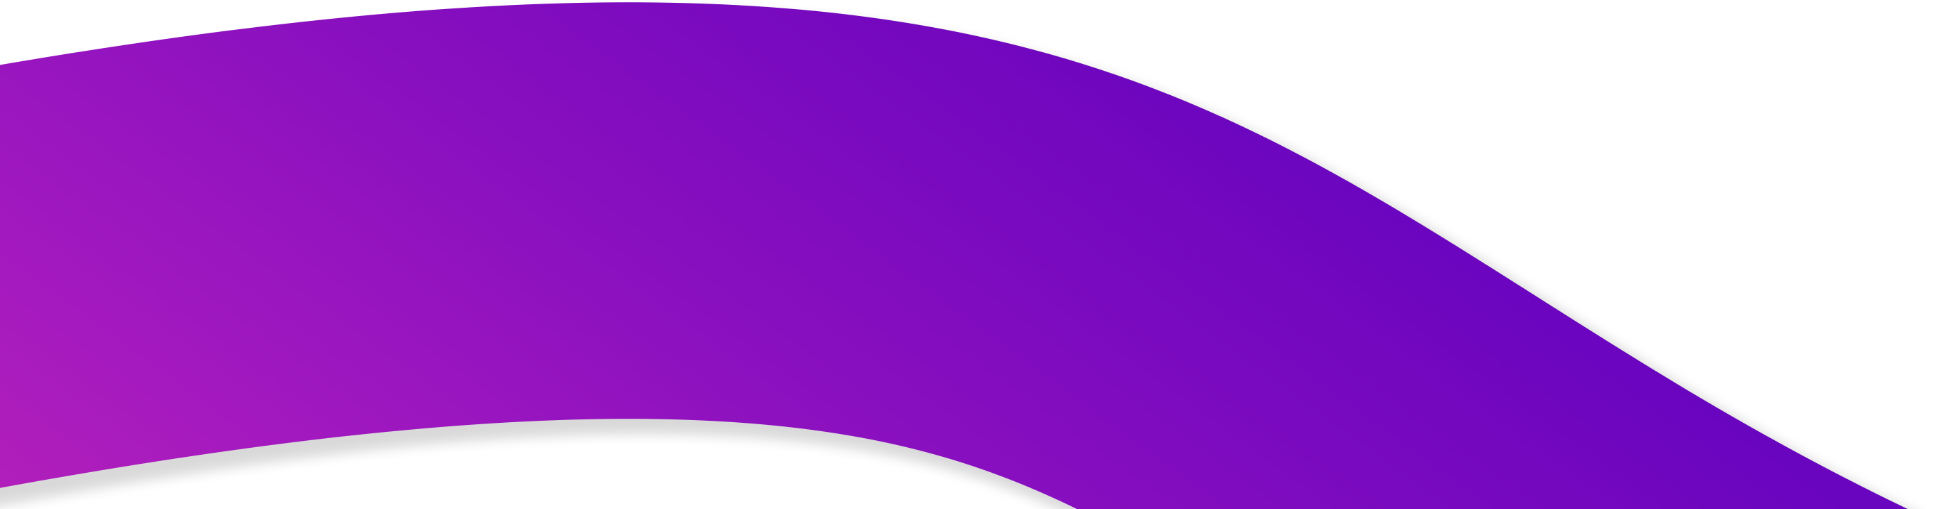
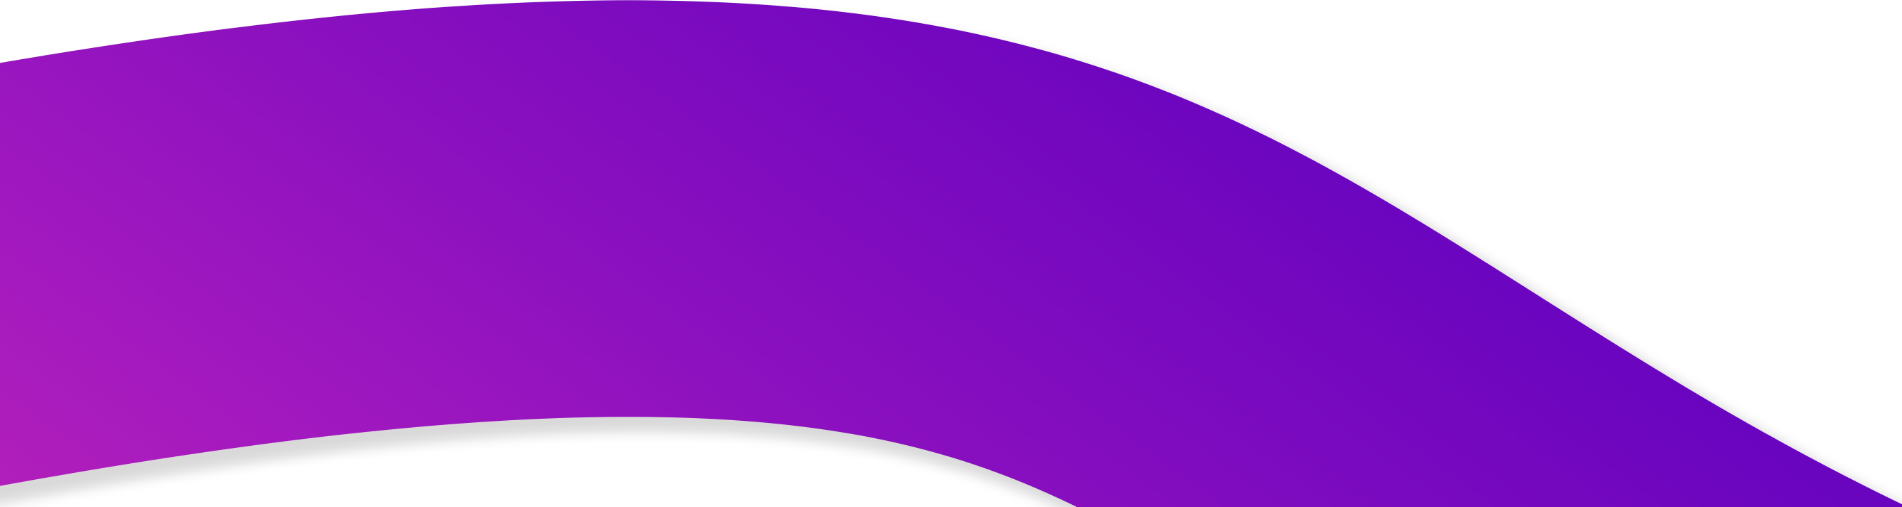
Responsive for xl

diff --git a/pages/index.tsx b/pages/index.tsx
@@ -28,7 +28,7 @@ const Home = () => (
 			</main>
 			<div className="pt-12 bg-white mt-10">
 				<div className="max-w-screen-xl mx-auto px-4 sm:px-6 lg:px-24">
-					<div className="lg:text-center">
+					<div className="md:text-center">
 						<h3 className="mt-2 text-3xl leading-8 font-extrabold tracking-tight text-gray-900 sm:text-5xl sm:leading-10">
 							What’s so special about us?
       					</h3>
@@ -57,7 +57,7 @@ const Home = () => (
 					</div>
 				</div>
 			</div>
-			<div className="sfd-no-long-read-section w-full py-12 md:py-0 bg-white md:h-68">
+			<div className="sfd-no-long-read-section w-full py-12 md:py-0 bg-white mt-4">
 				<div className="max-w-screen-xl mx-auto px-4 sm:px-6 lg:px-10 pt-1">
 					<div className="mt-10">
 						<ul className="md:grid md:grid-cols-2 md:col-gap-8 md:row-gap-10">
@@ -107,7 +107,7 @@ const Home = () => (
 					</div>
 				</div>
 			</div>
-			<div className="sfd-download-section py-12 bg-white mt-28">
+			<div className="sfd-download-section bg-white mt-28">
 				<div className="max-w-screen-xl mx-auto px-4 sm:px-6 lg:px-24">
 					<div className="lg:text-center">
 						<h3 className="mt-2 text-3xl leading-8 font-extrabold tracking-tight text-gray-900 sm:text-5xl sm:leading-10">
@@ -128,7 +128,7 @@ const Home = () => (
 								<div className="flex">
 									<div className="mt-16">
 										<img className="w-36 pl-2" src="/Logo-With-Text.svg"></img>
-										<p className="mt-6 pl-2 pr-12 text-lg leading-6 text-gray-800">
+										<p className="mt-6 pl-2 pr-12 text-lg leading-6 text-gray-800 lg:text-gray-800 xl:text-white">
 											Creative news templates and custom made videos with engaging audio give your ears and eyes a treat. We are never done improving and hope to offer you something exciting every time you open the So.Fa.Dog app.
               							</p>
 										<div className="flex mt-28">

diff --git a/styles/globals.css b/styles/globals.css
@@ -21,14 +21,14 @@
 
 .sfd-no-long-read-section {
     background: url('/gradient_line_l_to_r.png');
-    background-size: cover;
+    background-size: 100% 100%;
     background-repeat: no-repeat;
-    background-position-y: 0.5rem;
+    background-position: bottom;
 }
 
 .sfd-download-section {
     background: url('/gradient_line_r_to_l.png');
-    background-size: contain;
+    background-size: 100% 100%;
     background-repeat: no-repeat;
     background-position: bottom;
 }
@@ -63,7 +63,28 @@
 }
 
 .sfd-footer {
-    background: url('/gradient_line_l_to_r.png');
-    background-size: inherit;
+    background: url('/gradient_line_footer.png');
+    background-size: 100% 100%;
     background-repeat: no-repeat;
+}
+
+/* Responsive */
+/* Small (sm) */
+@media (min-width: 640px) { /* ... */ }
+
+/* Medium (md) */
+@media (min-width: 768px) { /* ... */ }
+
+/* Large (lg) */
+@media (min-width: 1024px) {
+    .sfd-download-section {
+        background-size: 100% 50%;    
+    }
+}
+
+/* Extra Large (xl) */
+@media (min-width: 1280px) {
+    .sfd-download-section {
+        background-size: 100% 70%;    
+    }
 }
